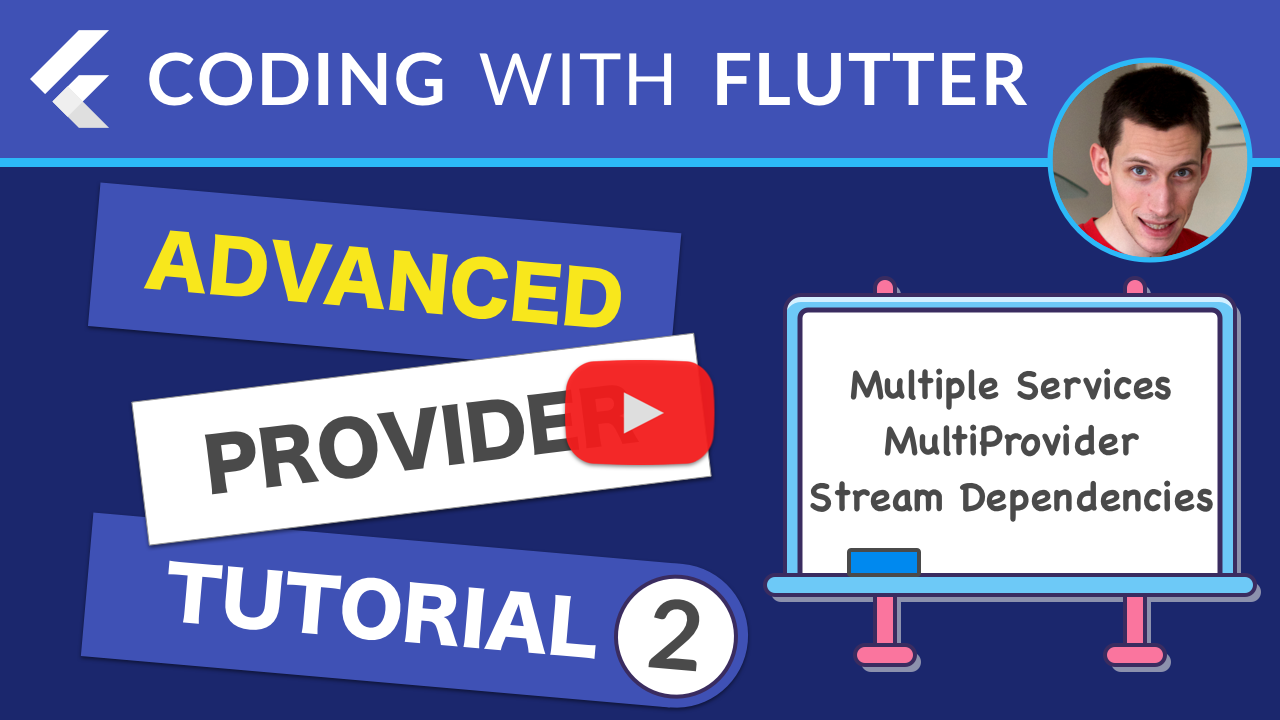
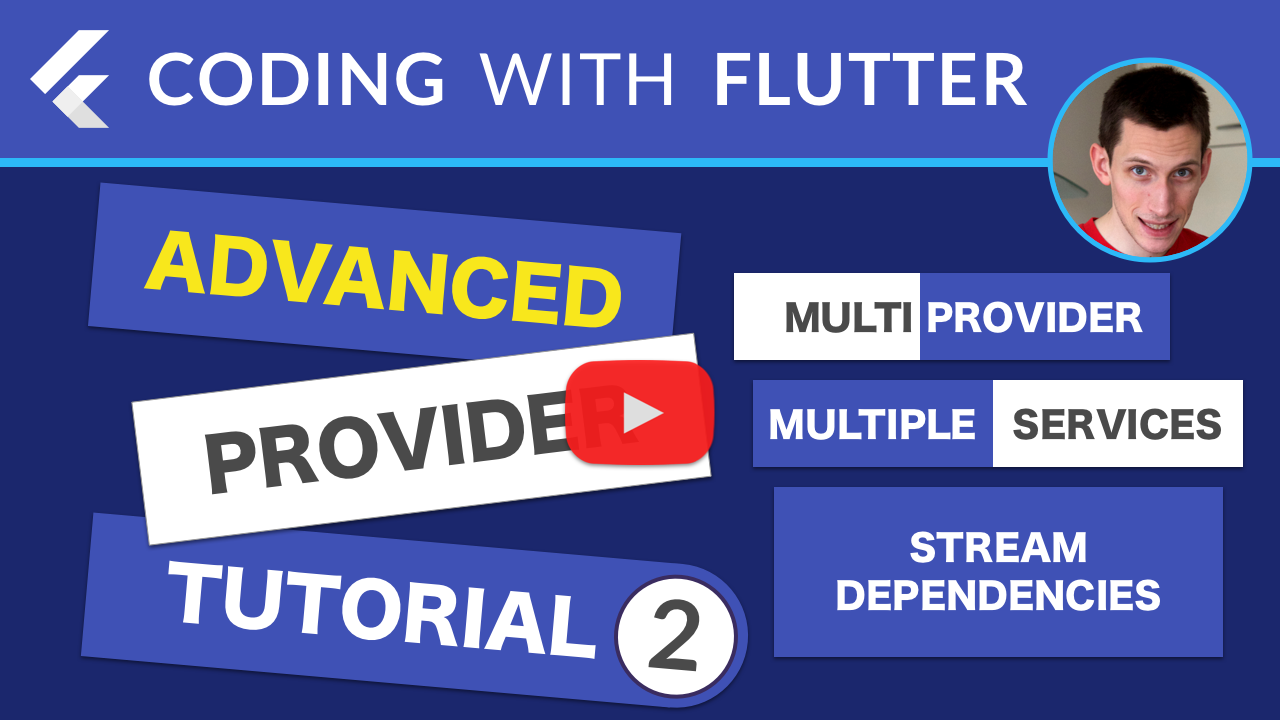
Working image upload implementation

Changed region(s): [[0.5625, 0.3667, 1.0, 0.9472]]

diff --git a/lib/app/home/home_page.dart b/lib/app/home/home_page.dart
@@ -2,8 +2,13 @@ import 'dart:async';
 
 import 'package:firebase_user_avatar_flutter/app/home/about_page.dart';
 import 'package:firebase_user_avatar_flutter/common_widgets/avatar.dart';
+import 'package:firebase_user_avatar_flutter/models/avatar_reference.dart';
 import 'package:firebase_user_avatar_flutter/services/firebase_auth_service.dart';
+import 'package:firebase_user_avatar_flutter/services/firebase_storage_service.dart';
+import 'package:firebase_user_avatar_flutter/services/firestore_service.dart';
+import 'package:firebase_user_avatar_flutter/services/image_picker_service.dart';
 import 'package:flutter/material.dart';
+import 'package:image_picker/image_picker.dart';
 import 'package:provider/provider.dart';
 
 class HomePage extends StatelessWidget {
@@ -28,9 +33,23 @@ class HomePage extends StatelessWidget {
   Future<void> _chooseAvatar(BuildContext context) async {
     try {
       // 1. Get image from picker
-      // 2. Upload to storage
-      // 3. Save url to Firestore
-      // 4. (optional) delete local file as no longer needed
+      final imagePicker = Provider.of<ImagePickerService>(context);
+      final file = await imagePicker.pickImage(source: ImageSource.gallery);
+      if (file != null) {
+        // 2. Upload to storage
+        final user = Provider.of<User>(context, listen: false);
+        final storage = Provider.of<FirebaseStorageService>(context);
+        final downloadUrl =
+            await storage.uploadAvatar(uid: user.uid, file: file);
+        // 3. Save url to Firestore
+        final database = Provider.of<FirestoreService>(context);
+        await database.setAvatarReference(
+          uid: user.uid,
+          avatarReference: AvatarReference(downloadUrl),
+        );
+        // 4. (optional) delete local file as no longer needed
+        await file.delete();
+      }
     } catch (e) {
       print(e);
     }
@@ -71,13 +90,20 @@ class HomePage extends StatelessWidget {
   }
 
   Widget _buildUserInfo({BuildContext context}) {
-    // TODO: Download and show avatar from Firebase storage
-    return Avatar(
-      photoUrl: null,
-      radius: 50,
-      borderColor: Colors.black54,
-      borderWidth: 2.0,
-      onPressed: () => _chooseAvatar(context),
+    final database = Provider.of<FirestoreService>(context);
+    final user = Provider.of<User>(context, listen: false);
+    return StreamBuilder<AvatarReference>(
+      stream: database.avatarReferenceStream(uid: user.uid),
+      builder: (context, snapshot) {
+        final avatarReference = snapshot.data;
+        return Avatar(
+          photoUrl: avatarReference?.downloadUrl,
+          radius: 50,
+          borderColor: Colors.black54,
+          borderWidth: 2.0,
+          onPressed: () => _chooseAvatar(context),
+        );
+      },
     );
   }
 }

diff --git a/lib/main.dart b/lib/main.dart
@@ -1,5 +1,8 @@
 import 'package:firebase_user_avatar_flutter/app/auth_widget.dart';
 import 'package:firebase_user_avatar_flutter/services/firebase_auth_service.dart';
+import 'package:firebase_user_avatar_flutter/services/firebase_storage_service.dart';
+import 'package:firebase_user_avatar_flutter/services/firestore_service.dart';
+import 'package:firebase_user_avatar_flutter/services/image_picker_service.dart';
 import 'package:flutter/material.dart';
 import 'package:provider/provider.dart';
 
@@ -8,8 +11,21 @@ void main() => runApp(MyApp());
 class MyApp extends StatelessWidget {
   @override
   Widget build(BuildContext context) {
-    return Provider<FirebaseAuthService>(
-      builder: (_) => FirebaseAuthService(),
+    return MultiProvider(
+      providers: [
+        Provider<FirebaseAuthService>(
+          builder: (_) => FirebaseAuthService(),
+        ),
+        Provider<ImagePickerService>(
+          builder: (_) => ImagePickerService(),
+        ),
+        Provider<FirebaseStorageService>(
+          builder: (_) => FirebaseStorageService(),
+        ),
+        Provider<FirestoreService>(
+          builder: (_) => FirestoreService(),
+        ),
+      ],
       child: MaterialApp(
         theme: ThemeData(primarySwatch: Colors.indigo),
         home: AuthWidget(),

diff --git a/lib/app/auth_widget.dart b/lib/app/auth_widget.dart
@@ -14,7 +14,13 @@ class AuthWidget extends StatelessWidget {
       builder: (context, snapshot) {
         if (snapshot.connectionState == ConnectionState.active) {
           final user = snapshot.data;
-          return user != null ? HomePage() : SignInPage();
+          if (user != null) {
+            return Provider<User>.value(
+              value: user,
+              child: HomePage(),
+            );
+          }
+          return SignInPage();
         }
         return Scaffold(
           body: Center(

diff --git a/README.md b/README.md
@@ -14,11 +14,14 @@ Video tutorial here:
 
 [![Advanced Provider Tutorial - Part 1: Project Setup & Authentication Flow](media/flutter-provider-advanced-banner-1.png)](https://youtu.be/j8P__wcq2YM)
 
-## Advanced Provider Tutorial - Part 2: MultiProvider & Multiple Services
+## Advanced Provider Tutorial - Part 2: MultiProvider, Multiple Services & Stream Dependencies
 
 To continue from the end of the previous tutorial, checkout the [`authentication-complete`](https://github.com/bizz84/firebase_user_avatar_flutter/tree/authentication-complete) branch.
 
-**Video tutorial upcoming**
+Video tutorial here:
+
+[![Advanced Provider Tutorial - Part 2: MultiProvider, Multiple Services & Stream Dependencies](media/flutter-provider-advanced-banner-2.png)](https://youtu.be/wxN1L3RfulI)
+
 
 ## Advanced Provider Tutorial - Part 3: Dependencies Between Providers
 
